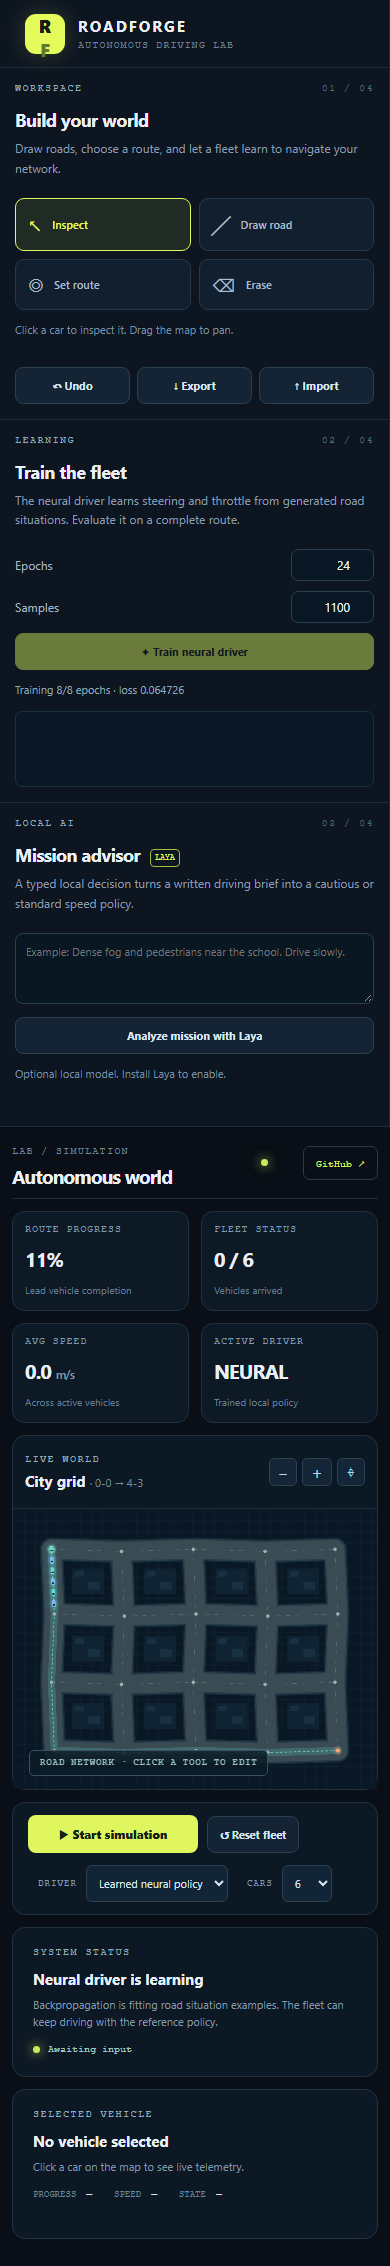
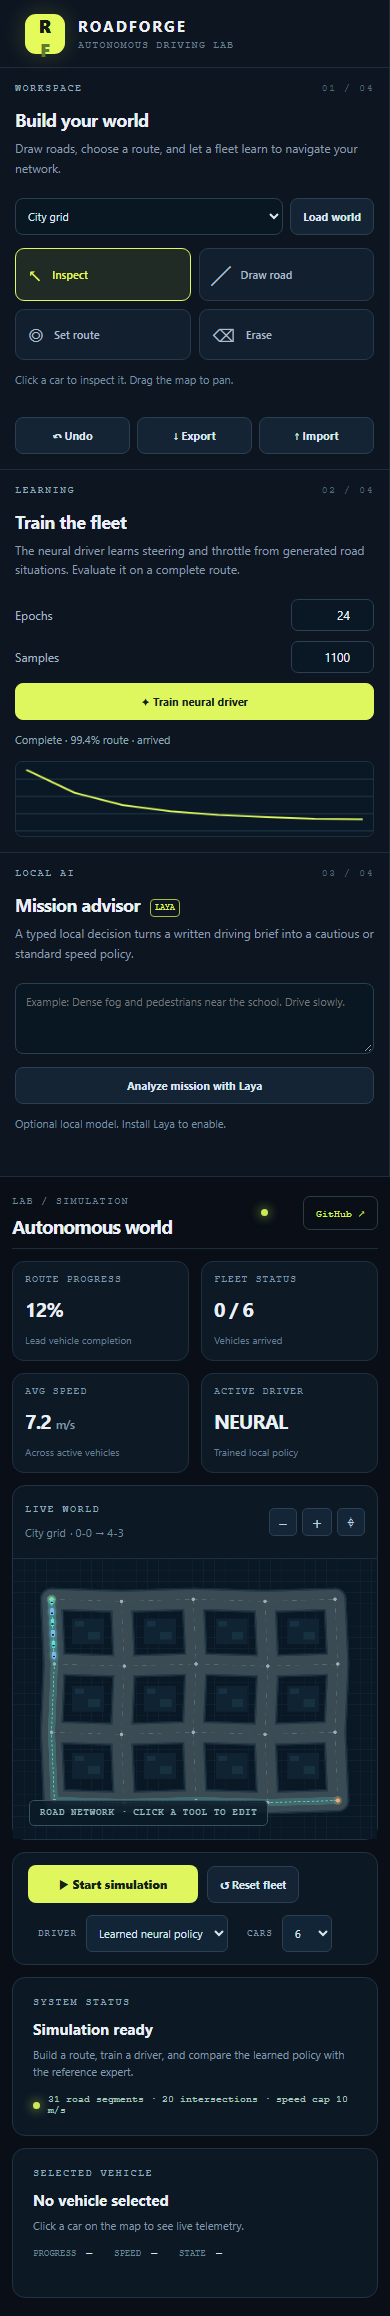
docs: publish cross-world results and verified Laya integration

diff --git a/README.md b/README.md
@@ -6,16 +6,18 @@ RoadForge is a local-first autonomous-driving laboratory written in Python with 
 
 ![RoadForge dashboard with an autonomous fleet on the bundled city map](docs/screenshot.png)
 
+[Switchback world preview](docs/switchback.png) · [Mobile layout](docs/mobile.png)
+
 > RoadForge is a 2D software simulation. It is not a real-vehicle controller or a claim of road safety.
 
 ## What you can do
 
-- **Build a connected world:** click to add intersections and roads, erase segments, undo edits, import/export JSON, and save locally.
+- **Build a connected world:** start from three different road layouts, click to add intersections and roads, erase segments, undo edits, import/export JSON, and save locally.
 - **Plan a route:** select start and destination; Dijkstra's algorithm finds the shortest connected path.
 - **Drive a fleet:** compare a geometric reference driver with a neural policy across 1, 6, or 12 autonomous cars.
 - **Train on your own map:** road-relative examples are generated from the currently selected route. A small neural network learns steering and throttle through backpropagation. The learned weights drive the cars without consulting the reference policy at inference time.
 - **Inspect behavior:** view route progress, speeds, stops, completion, per-car telemetry, and training loss.
-- **Apply a written mission:** when Laya is installed, classify a mission note as standard or cautious driving and cap speed accordingly. Low-confidence results use the cautious setting.
+- **Apply a written mission:** when Laya is installed, classify a mission note as standard or cautious driving and cap speed accordingly. Low-score results use the cautious setting.
 
 ## Quick start
 
@@ -33,6 +35,10 @@ roadforge serve
 
 Open **http://127.0.0.1:8765**. The included city and pretrained neural driver are ready to run. The app binds to localhost by default.
 
+Docker is also supported: `docker build -t roadforge .` followed by `docker run --rm -p 127.0.0.1:8765:8765 roadforge`.
+
+Set `ROADFORGE_DATA_DIR` before starting if you want local worlds and trained weights in a specific folder. Editable source runs default to `data/` in the checkout; installed wheels default to `.roadforge/` under the launch directory.
+
 ### First five minutes
 
 1. Press **Start simulation** to watch the included fleet.
@@ -48,10 +54,19 @@ The **Import** and **Export** buttons exchange a portable JSON file containing t
 ```bash
 roadforge train --epochs 24 --samples 1100 --seed 7 --output data/model.json
 roadforge evaluate --model data/pretrained_model.json
+roadforge benchmark --model data/pretrained_model.json
 roadforge serve --port 8765
 ```
 
 `roadforge train` trains on the included city. The web app trains on whichever valid world and route you built in the editor. A fixed seed makes repeated runs comparable.
+
+`roadforge benchmark` runs the committed model on the city, switchback, and zigzag presets. The latter two have distinct geometry and were not used to fit the bundled weights.
+
+| Preset | Used in training | Learned driver arrived | Completion |
+| --- | --- | ---: | ---: |
+| City grid | yes | yes | 99.4% |
+| Switchback | no | yes | 99.5% |
+| Zigzag | no | yes | 99.2% |
 
 ## How learning works
 
@@ -92,18 +107,18 @@ pip install laya
 roadforge serve
 ```
 
-The first Laya call may download model weights. It is optional; the simulation and neural driving work offline without it after installation. RoadForge does not bundle or upload Laya weights. See [decision layer](docs/LAYA.md) for the exact question schema, fallback, and integration status.
+The first Laya call may download model weights. To keep the checkpoint on a chosen disk, set `HF_HOME` to a folder on that disk before starting RoadForge. It is optional; the simulation and neural driving work offline without it after installation. RoadForge does not bundle or upload Laya weights. See [decision layer](docs/LAYA.md) for the exact question schema, fallback, and integration status.
 
 ## Development
 
 ```bash
 pip install -e ".[dev]"
 pytest -q
-ruff check src tests
+ruff check src tests e2e
 node --check web/app.js
 ```
 
-GitHub Actions runs Python tests on Windows and Ubuntu, syntax-checks the browser code, and enforces Ruff. See [contributing](CONTRIBUTING.md), [security](SECURITY.md), and [API](docs/API.md).
+For a real browser run, install `.[e2e]`, run `python -m playwright install chromium`, then `pytest e2e -q`. GitHub Actions runs Python tests on Windows and Ubuntu, syntax-checks the browser code, enforces Ruff, and runs a Chromium workflow test. See [contributing](CONTRIBUTING.md), [security](SECURITY.md), and [API](docs/API.md).
 
 ## Repository layout
 

diff --git a/docs/LAYA.md b/docs/LAYA.md
@@ -11,7 +11,7 @@ The app asks:
 1. **Choice:** is this a `cautious`, `standard`, or `unknown` driving mission?
 2. **Score:** how much road-condition risk is described?
 
-Only `cautious` and `standard` are accepted. Unknown or confidence below `0.65` falls back to cautious. The resulting speed cap is 10 or 19 simulation units per second. Laya never receives raw image frames, controls the vehicle directly, or changes the road graph.
+Only `cautious` and `standard` are accepted. Unknown or a model score below `0.65` falls back to cautious. The resulting speed cap is 10 or 19 simulation units per second. Laya never receives raw image frames, controls the vehicle directly, or changes the road graph.
 
 ## Install and use
 
@@ -24,4 +24,4 @@ Enter a mission note in the sidebar and press **Analyze mission with Laya**. The
 
 ## Verification status
 
-Automated tests verify the adapter's decision mapping, question schema, and low-confidence fallback with a controlled Router stub. They do not assert a model-quality score. A real Laya inference run requires the optional package and checkpoint on the operator's machine. Threshold `0.65` is an application default, not a validated safety threshold.
+Automated tests verify the adapter's decision mapping, question schema, and low-score fallback with a controlled Router stub. On 26 September 2026, Laya `0.3.20` was also run locally with the example fog and clear-road notes; it returned cautious and standard respectively. The runtime warned that some checkpoint temperatures were invalid and affected scores should be treated as **uncalibrated**. RoadForge labels the field `calibration: "unverified"` and treats `0.65` as an application heuristic, not a validated safety threshold. Neither the example calls nor the tests establish model-quality performance.

diff --git a/docs/MODEL_CARD.md b/docs/MODEL_CARD.md
@@ -27,6 +27,8 @@ roadforge train --seed 7 --samples 1100 --epochs 24 --output data/pretrained_mod
 
 This is a functional demonstration. It does not establish generalization to unseen layouts or physical vehicles. The app supports training on a user-built world so the model can be evaluated there directly.
 
+`roadforge benchmark` also runs the model on two distinct, hand-built road layouts that were not used in training: switchback and zigzag. Both reached the destination in a local development run (99.5% and 99.2% route progress respectively). Automated tests assert arrival on all three presets. These are still small synthetic worlds and do not establish robust out-of-distribution performance.
+
 ## Known limitations
 
 - No pedestrians, traffic lights, dynamic obstacles, weather physics, or right-of-way rules.

diff --git a/docs/API.md b/docs/API.md
@@ -6,7 +6,9 @@ Run `roadforge serve` and use `http://127.0.0.1:8765`. JSON endpoints return eit
 | --- | --- | --- |
 | GET | `/api/health` | Liveness check |
 | GET | `/api/state` | World, route, fleet, policy, training status |
+| GET | `/api/presets` | List the included world presets |
 | POST | `/api/world` | Validate and save `{world,start,goal}` |
+| POST | `/api/preset` | Load a preset with `{name}` |
 | POST | `/api/route` | Select `{start,goal}` in the current graph |
 | POST | `/api/fleet` | Reset with `{mode,count}` |
 | POST | `/api/tick` | Advance `{frames}` fixed steps |

diff --git a/CONTRIBUTING.md b/CONTRIBUTING.md
@@ -8,7 +8,7 @@ Thanks for improving RoadForge. Please open an issue before large architectural 
 python -m venv .venv
 pip install -e ".[dev]"
 pytest -q
-ruff check src tests
+ruff check src tests e2e
 node --check web/app.js
 ```
 
